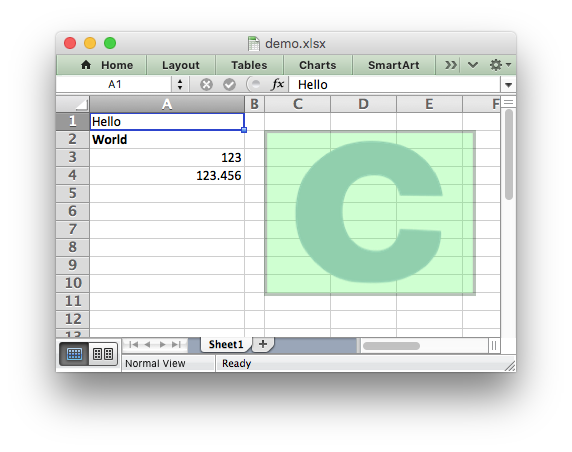
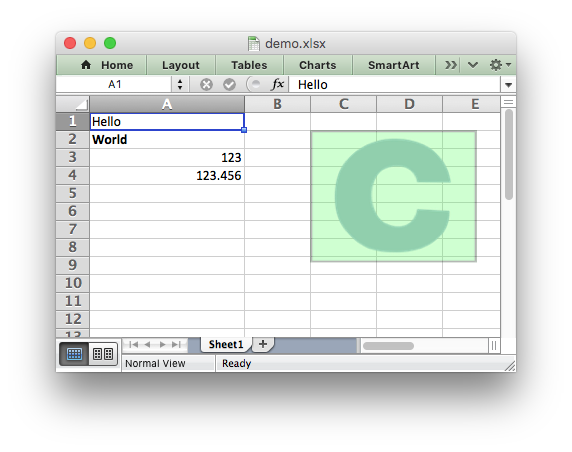
Updated docs.

diff --git a/demo_8c-example.html b/demo_8c-example.html
@@ -104,9 +104,8 @@ var searchBox = new SearchBox("searchBox", "search",false,'Search');
 <div class="line">    <span class="comment">/* Set the bold property for the format */</span></div>
 <div class="line">    <a name="a6"></a><a class="code" href="format_8h.html#a85e1b0baf44b445b65894e48722aec14">format_set_bold</a>(format);</div>
 <div class="line"></div>
-<div class="line">    <span class="comment">/* Change the column widths for clarity. */</span></div>
+<div class="line">    <span class="comment">/* Change the column width for clarity. */</span></div>
 <div class="line">    <a name="a7"></a><a class="code" href="worksheet_8h.html#a5e54e97691068c7fd227f8713938aedc">worksheet_set_column</a>(worksheet, 0, 0, 20, NULL);</div>
-<div class="line">    <a class="code" href="worksheet_8h.html#a5e54e97691068c7fd227f8713938aedc">worksheet_set_column</a>(worksheet, 1, 1,  2, NULL);</div>
 <div class="line"></div>
 <div class="line">    <span class="comment">/* Write some simple text. */</span></div>
 <div class="line">    <a name="a8"></a><a class="code" href="worksheet_8h.html#a0c3e081792631511c9ee3f7507afb78c">worksheet_write_string</a>(worksheet, 0, 0, <span class="stringliteral">&quot;Hello&quot;</span>, NULL);</div>
